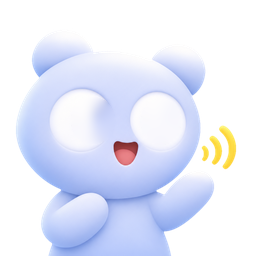
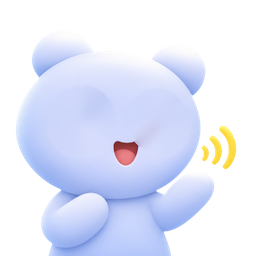
fix(ios): a blinking bear shuts its whole eye, white and all
The blink squeezed only the pupils, so the shut eye was a thin line across a white disc. The
filled pictures now fill the whole eye with the face's colour, and the face squeezes the white
and the pupil together, so a shut eye is a thin line on the face, as the sleeping face's.

Changed region(s): [[0.5, 0.3438, 0.75, 0.5938], [0.1875, 0.3438, 0.4062, 0.5938]]

diff --git a/native/ios-app/Poki/Bear/BlinkingFace.swift b/native/ios-app/Poki/Bear/BlinkingFace.swift
@@ -4,9 +4,10 @@ import UIKit
 /// The bear's face for Poki's state, alive: it blinks every few seconds, now and then twice, and
 /// gives a small hop when its state changes (ESP-468). It fills the square it is given.
 ///
-/// It is drawn from the bear's cutouts. Each face with open eyes has a copy with the pupils filled
-/// with the eye's own white (PokiBearLids-<face>.png, made by scripts/make-bear-blink.py), and the
-/// pupils of the cutout are laid back over it, so they can be squeezed shut. When the
+/// It is drawn from the bear's cutouts. Each face with open eyes has a copy with both eyes, white and
+/// pupil, filled with the face's own colour (PokiBearLids-<face>.png, made by scripts/make-bear-blink.py),
+/// and the eyes of the cutout are laid back over it, so the whole eye is squeezed shut. A shut eye is
+/// a thin line on the face, as the sleeping face's, not a line across a white disc. When the
 /// three-dimensional bear arrives (ESP-319), its rendering takes the place of this view: Poki's
 /// picture in the top bar and in the flight from the home page draw nothing else.
 /// With Reduce Motion it neither blinks nor hops.
@@ -71,21 +72,22 @@ struct BlinkingFace: View {
     }
 }
 
-/// Where the pupils are on each face with open eyes, as fractions of the cutout's side, and the
-/// pictures with them filled. The table is printed by scripts/make-bear-blink.py.
+/// Where the eyes are on each face with open eyes, as fractions of the cutout's side (the rectangle of
+/// the ellipse that holds each eye's white and pupil), and the pictures with them filled. The table is
+/// printed by scripts/make-bear-blink.py.
 enum BearEyes {
     static func lids(_ mood: PokiMood) -> UIImage? { UIImage(named: "PokiBearLids-\(mood.rawValue)") }
 
     static let table: [PokiMood: [CGRect]] = [
-        .hello: [CGRect(x: 0.2461, y: 0.4062, width: 0.1680, height: 0.1758), CGRect(x: 0.4883, y: 0.3867, width: 0.1641, height: 0.1758)],
-        .ready: [CGRect(x: 0.2812, y: 0.3945, width: 0.1797, height: 0.1914), CGRect(x: 0.5352, y: 0.3945, width: 0.1797, height: 0.1914)],
-        .thinking: [CGRect(x: 0.3125, y: 0.3086, width: 0.1562, height: 0.1719), CGRect(x: 0.6250, y: 0.3945, width: 0.1562, height: 0.1758)],
-        .onYourPhone: [CGRect(x: 0.3047, y: 0.4570, width: 0.1562, height: 0.1523), CGRect(x: 0.5352, y: 0.4805, width: 0.1523, height: 0.1523)],
-        .checking: [CGRect(x: 0.2930, y: 0.4141, width: 0.1797, height: 0.1875), CGRect(x: 0.5352, y: 0.4805, width: 0.1523, height: 0.1641)],
-        .needsYou: [CGRect(x: 0.2500, y: 0.4219, width: 0.1602, height: 0.1719), CGRect(x: 0.4727, y: 0.4297, width: 0.1602, height: 0.1719)],
-        .tripped: [CGRect(x: 0.3242, y: 0.4648, width: 0.1523, height: 0.1562), CGRect(x: 0.5820, y: 0.5000, width: 0.1523, height: 0.1562)],
-        .cantReach: [CGRect(x: 0.3477, y: 0.4609, width: 0.1445, height: 0.1523), CGRect(x: 0.5977, y: 0.4258, width: 0.1406, height: 0.1484)],
-        .listening: [CGRect(x: 0.2500, y: 0.3477, width: 0.1523, height: 0.1680), CGRect(x: 0.5117, y: 0.4297, width: 0.1562, height: 0.1719)],
-        .speaking: [CGRect(x: 0.2773, y: 0.3789, width: 0.1719, height: 0.1836), CGRect(x: 0.5508, y: 0.3867, width: 0.1562, height: 0.1797)],
+        .hello: [CGRect(x: 0.1562, y: 0.3555, width: 0.2734, height: 0.2852), CGRect(x: 0.4648, y: 0.3281, width: 0.2617, height: 0.2852)],
+        .ready: [CGRect(x: 0.1875, y: 0.3398, width: 0.2852, height: 0.3008), CGRect(x: 0.5195, y: 0.3438, width: 0.2812, height: 0.3047)],
+        .thinking: [CGRect(x: 0.2031, y: 0.2734, width: 0.2734, height: 0.2852), CGRect(x: 0.5195, y: 0.3672, width: 0.2656, height: 0.2773)],
+        .onYourPhone: [CGRect(x: 0.2031, y: 0.3398, width: 0.2695, height: 0.2852), CGRect(x: 0.5195, y: 0.3672, width: 0.2578, height: 0.2891)],
+        .checking: [CGRect(x: 0.1953, y: 0.3438, width: 0.3086, height: 0.3242), CGRect(x: 0.5273, y: 0.4180, width: 0.2539, height: 0.2852)],
+        .needsYou: [CGRect(x: 0.1641, y: 0.3750, width: 0.2578, height: 0.2734), CGRect(x: 0.4609, y: 0.3828, width: 0.2461, height: 0.2695)],
+        .tripped: [CGRect(x: 0.2227, y: 0.4023, width: 0.2695, height: 0.2695), CGRect(x: 0.5078, y: 0.4336, width: 0.2422, height: 0.2539)],
+        .cantReach: [CGRect(x: 0.2383, y: 0.4453, width: 0.2695, height: 0.2461), CGRect(x: 0.5078, y: 0.3945, width: 0.2500, height: 0.2539)],
+        .listening: [CGRect(x: 0.1562, y: 0.3086, width: 0.2539, height: 0.2539), CGRect(x: 0.4258, y: 0.3828, width: 0.2500, height: 0.2656)],
+        .speaking: [CGRect(x: 0.1758, y: 0.3281, width: 0.2812, height: 0.2930), CGRect(x: 0.4883, y: 0.3398, width: 0.2578, height: 0.2852)],
     ]
 }

diff --git a/native/ios-app/scripts/make-bear-blink.py b/native/ios-app/scripts/make-bear-blink.py
@@ -1,11 +1,12 @@
 #!/usr/bin/env python3
 """make-bear-blink.py: makes the blinking bear's pictures from the bear's own cutouts (ESP-468).
 
-For every face with open eyes, it finds the two dark pupils in Poki/Bear/PokiBearCutSmall-<face>.png,
-fills them with the eye's own white from around them (PokiBearLids-<face>.png), and prints where
-the pupils are, as the Swift table `BearEyes.table` in Poki/Bear/BearPortrait.swift. The portrait
-draws the filled picture and lays the pupils back over it from the original, so it can squeeze
-them shut for a blink. Run it again when the cutouts change; it needs Pillow, NumPy and SciPy.
+For every face with open eyes, it finds the two dark pupils in Poki/Bear/PokiBearCutSmall-<face>.png
+and the white eye round each, fills both eyes with the face's own colour from around them
+(PokiBearLids-<face>.png), and prints where the eyes are, as the Swift table `BearEyes.table` in
+Poki/Bear/BlinkingFace.swift. The face draws the filled picture and lays each whole eye, white and
+pupil, back over it from the original, so the eye can be squeezed shut for a blink without leaving
+its white behind. Run it again when the cutouts change; it needs Pillow, NumPy and SciPy.
 """
 import sys
 from pathlib import Path
@@ -19,34 +20,55 @@ FACES = ["hello", "ready", "thinking", "on-your-phone", "checking", "needs-you",
          "tripped", "cant-reach", "listening", "speaking"]
 # A pupil is a dark blob of at least this many pixels; the smile is smaller.
 PUPIL = 500
-# How far past the pupil's edge the fill reaches, so no dark fringe is left.
+# How far past the eye's edge the fill reaches, so no light fringe is left.
 MARGIN = 3
+# The eye's white: light and nearly grey, unlike the face's periwinkle.
+WHITE_LUMA = 226
+WHITE_CHROMA = 34
 
 
 def pupils(rgba):
+    """The two pupils, left first, each as a mask."""
     dark = (rgba[..., :3].mean(-1) < 90) & (rgba[..., 3] > 200)
     labels, count = ndimage.label(dark)
     sizes = ndimage.sum(dark, labels, range(1, count + 1))
-    boxes = ndimage.find_objects(labels)
-    found = [boxes[i] for i, size in enumerate(sizes) if size >= PUPIL]
+    found = [i + 1 for i, size in enumerate(sizes) if size >= PUPIL]
     if len(found) != 2:
         sys.exit(f"expected two pupils, found {len(found)}")
-    return sorted(found, key=lambda box: box[1].start)
+    masks = [labels == i for i in found]
+    return sorted(masks, key=lambda mask: np.nonzero(mask)[1].min())
 
 
-def ellipse(shape, box, grow):
-    ys, xs = np.mgrid[0:shape[0], 0:shape[1]]
-    cy = (box[0].start + box[0].stop - 1) / 2
-    cx = (box[1].start + box[1].stop - 1) / 2
-    ry = (box[0].stop - box[0].start) / 2 + grow
-    rx = (box[1].stop - box[1].start) / 2 + grow
-    return ((ys - cy) / ry) ** 2 + ((xs - cx) / rx) ** 2 <= 1
+def eye(rgba, pupil):
+    """The whole eye round a pupil: the white touching it, the pupil, and what they enclose, grown by MARGIN."""
+    rgb = rgba[..., :3]
+    white = (rgb.mean(-1) > WHITE_LUMA) & (rgb.max(-1) - rgb.min(-1) < WHITE_CHROMA) & (rgba[..., 3] > 250)
+    labels, _ = ndimage.label(white | pupil)
+    touching = set(np.unique(labels[ndimage.binary_dilation(pupil, iterations=4) & (white | pupil)])) - {0}
+    whole = ndimage.binary_fill_holes(np.isin(labels, list(touching)))
+    return ndimage.binary_dilation(whole, iterations=MARGIN)
 
 
-def fill(rgb, hole):
-    """Fills the hole from its edge inward, each pixel the mean of its known neighbours, then smooths."""
-    rgb = rgb.copy()
-    known = ~hole
+def cover(mask):
+    """The rectangle whose inscribed ellipse holds every pixel of the mask: the view masks each eye with that
+    ellipse, so a filled pixel outside it would show while the eye is open."""
+    ys, xs = np.nonzero(mask)
+    x0, x1, y0, y1 = xs.min() - 1.0, xs.max() + 2.0, ys.min() - 1.0, ys.max() + 2.0
+    while True:
+        cx, cy, rx, ry = (x0 + x1) / 2, (y0 + y1) / 2, (x1 - x0) / 2, (y1 - y0) / 2
+        if (((xs + 0.5 - cx) / rx) ** 2 + ((ys + 0.5 - cy) / ry) ** 2).max() <= 0.97:
+            return x0, y0, x1 - x0, y1 - y0
+        x0, x1, y0, y1 = x0 - 1, x1 + 1, y0 - 1, y1 + 1
+
+
+def fill(rgba, hole):
+    """Fills the hole from its edge inward, each pixel the mean of its known neighbours, then smooths.
+    Only the face's own colour feeds it: a mouth or blush touching an eye would otherwise bleed in."""
+    rgb = rgba[..., :3].copy()
+    face = (rgb[..., 2] > rgb[..., 0]) & (rgb.mean(-1) > 150) & (rgba[..., 3] > 250)
+    near = ndimage.binary_dilation(hole, iterations=12)
+    work = hole | (near & ~face)
+    known = ~work
     kernel = np.ones((3, 3))
     while not known.all():
         weight = ndimage.convolve(known.astype(float), kernel, mode="nearest")
@@ -57,8 +79,10 @@ def fill(rgb, hole):
         known = known | edge
     for _ in range(40):
         blurred = ndimage.uniform_filter(rgb, size=(3, 3, 1), mode="nearest")
-        rgb[hole] = blurred[hole]
-    return rgb
+        rgb[work] = blurred[work]
+    out = rgba[..., :3].copy()
+    out[hole] = rgb[hole]
+    return out
 
 
 def main():
@@ -67,15 +91,13 @@ def main():
         image = Image.open(BEAR / f"PokiBearCutSmall-{face}.png").convert("RGBA")
         rgba = np.asarray(image).astype(float)
         side = rgba.shape[0]
-        boxes = pupils(rgba)
-        hole = ellipse(rgba.shape[:2], boxes[0], MARGIN) | ellipse(rgba.shape[:2], boxes[1], MARGIN)
+        eyes = [eye(rgba, pupil) for pupil in pupils(rgba)]
         out = rgba.copy()
-        out[..., :3] = fill(rgba[..., :3], hole)
+        out[..., :3] = fill(rgba, eyes[0] | eyes[1])
         Image.fromarray(out.round().clip(0, 255).astype(np.uint8)).save(BEAR / f"PokiBearLids-{face}.png", optimize=True)
         rects = []
-        for box in boxes:
-            x, y = box[1].start - MARGIN, box[0].start - MARGIN
-            w, h = box[1].stop - box[1].start + 2 * MARGIN, box[0].stop - box[0].start + 2 * MARGIN
+        for mask in eyes:
+            x, y, w, h = cover(mask)
             rects.append(f"CGRect(x: {x / side:.4f}, y: {y / side:.4f}, width: {w / side:.4f}, height: {h / side:.4f})")
         rows.append(f'        .{camel(face)}: [{", ".join(rects)}],')
     print("    static let table: [PokiMood: [CGRect]] = [")
